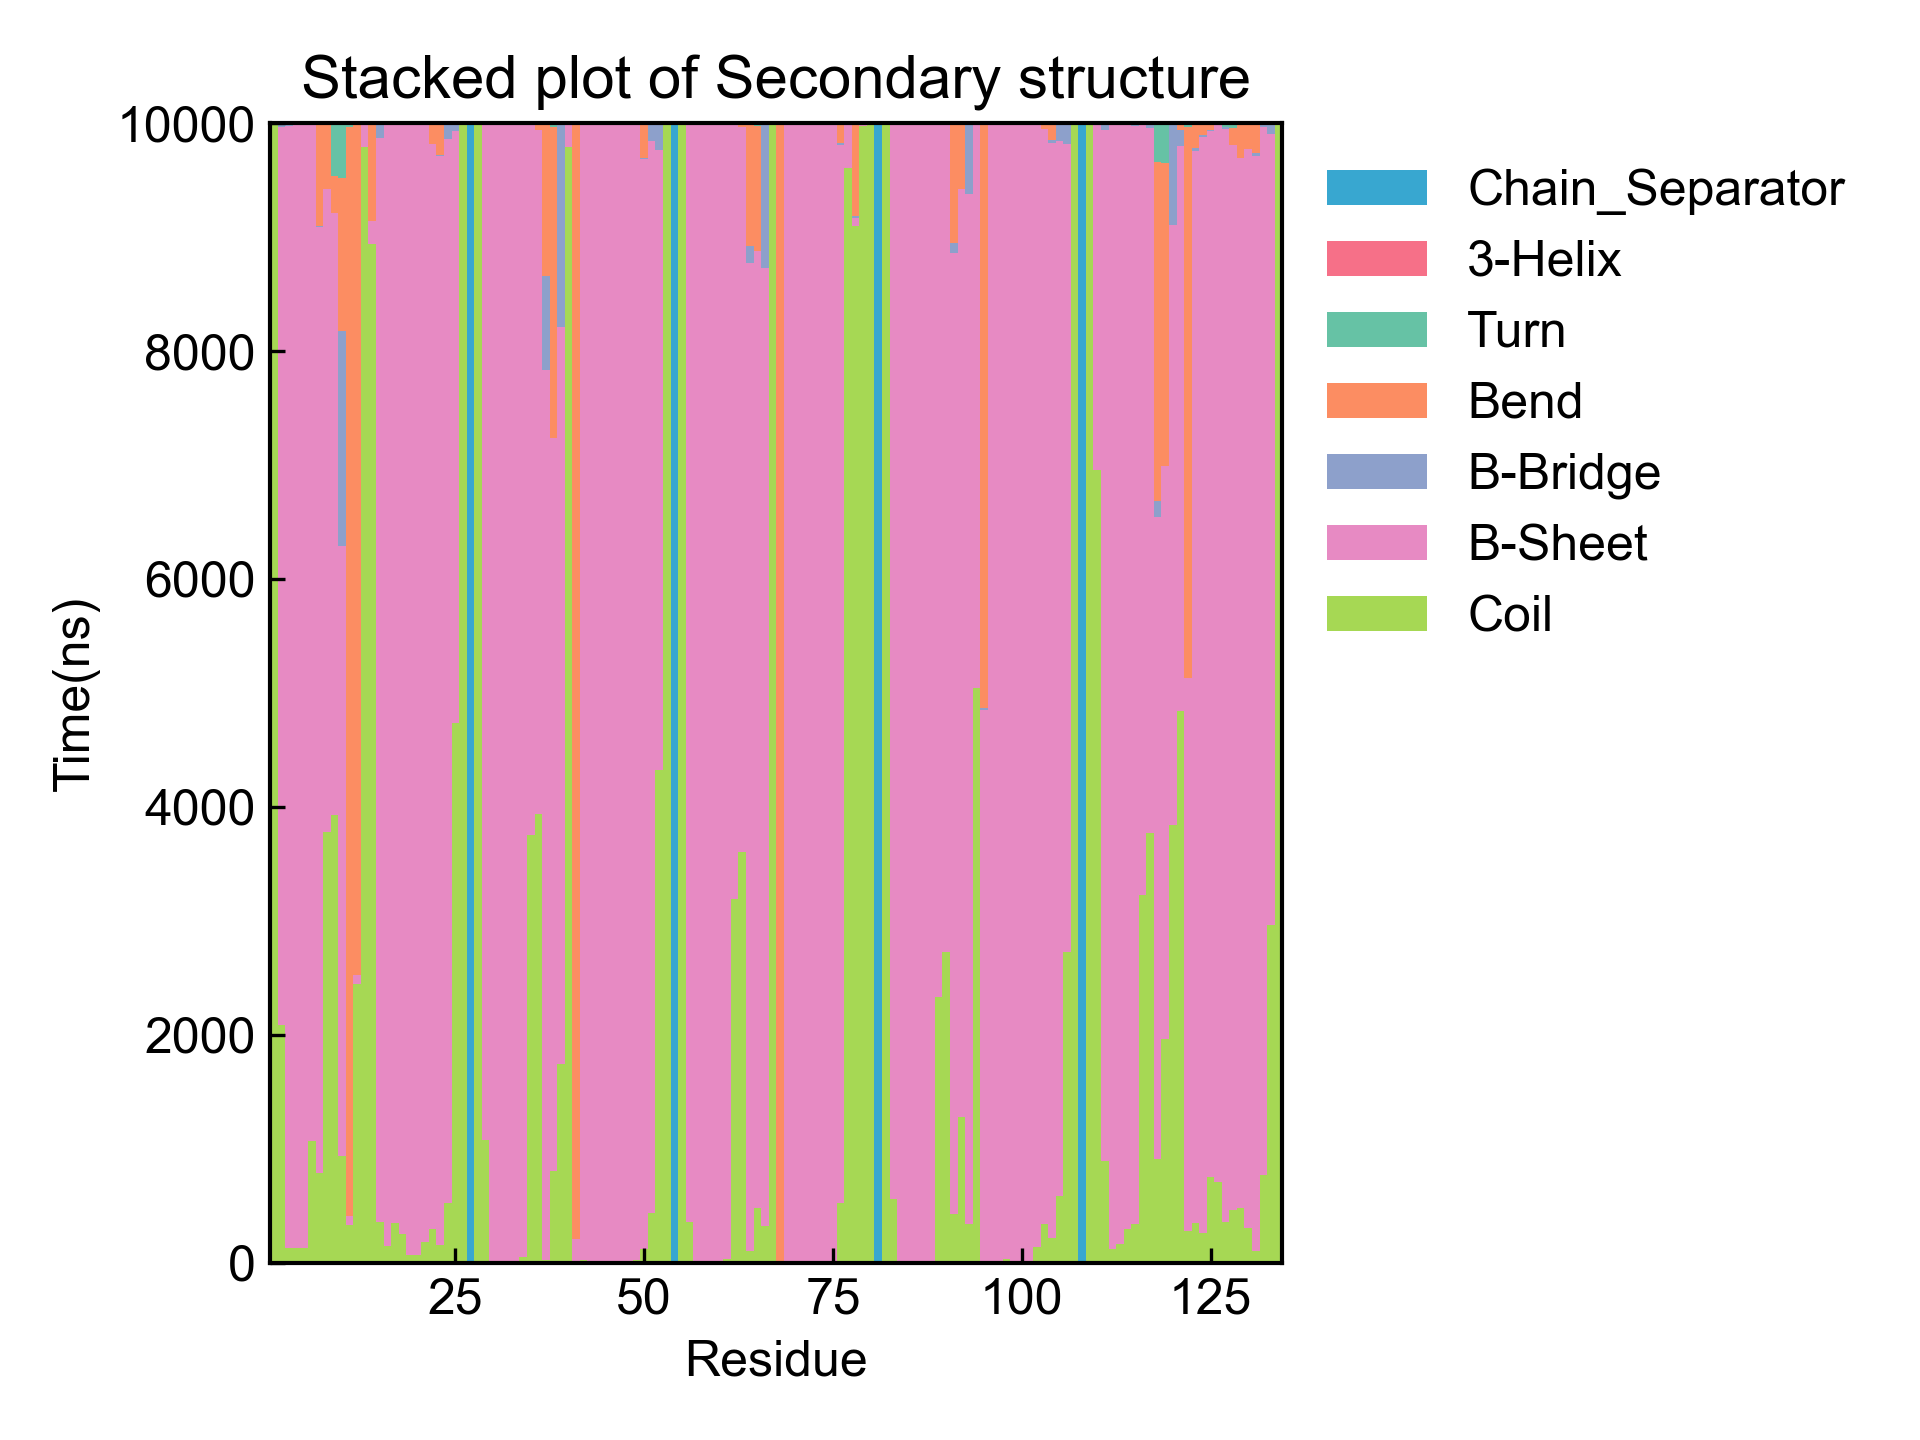
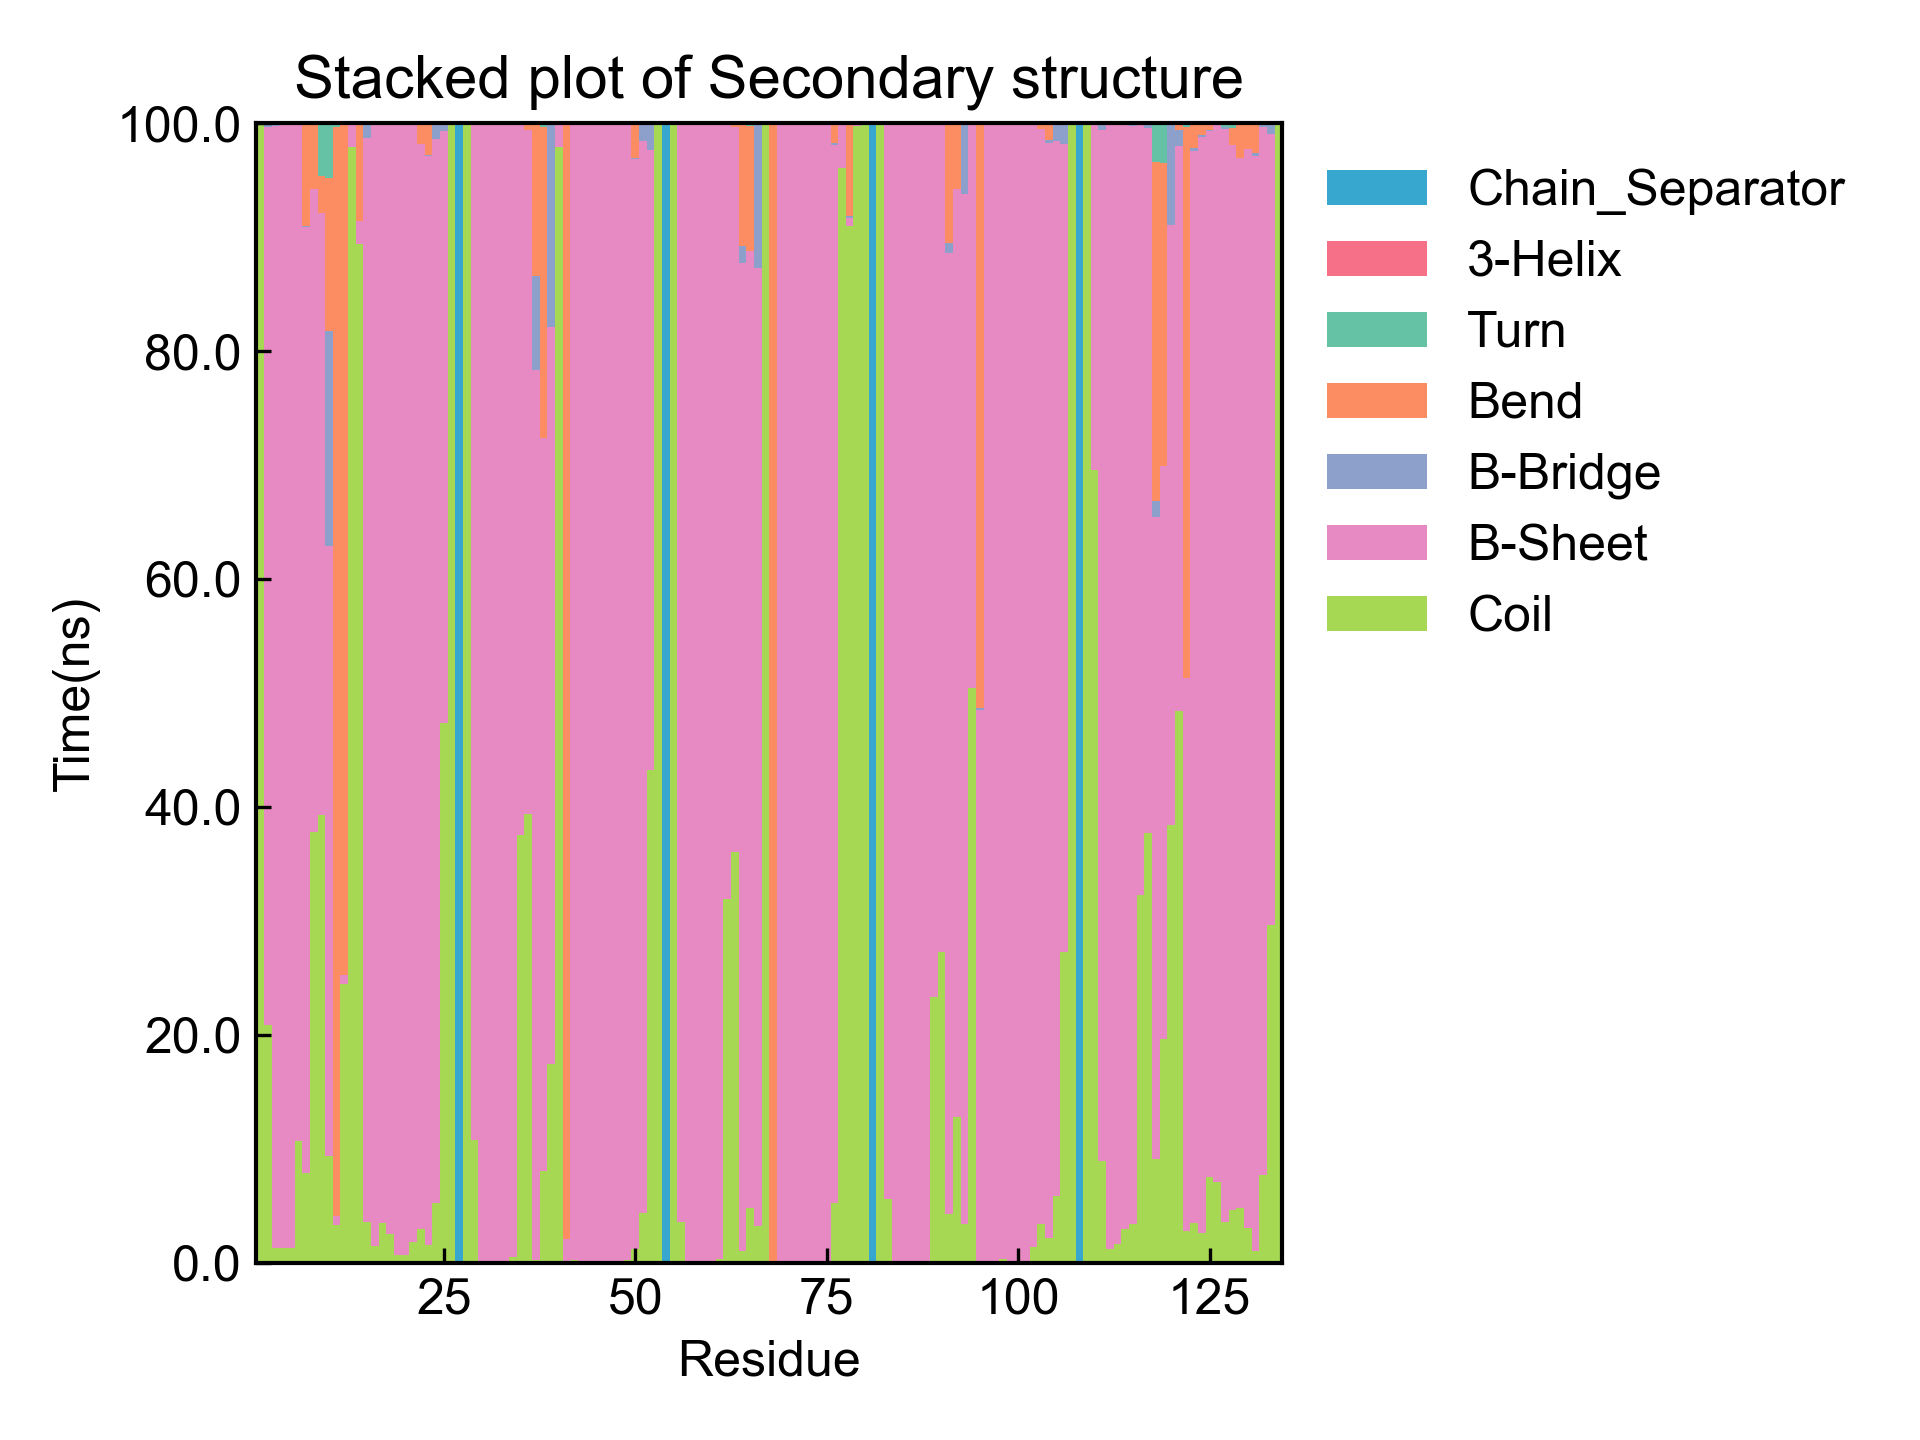
fixed the bug of dssp in DuIvyTools_old

Changed region(s): [[0.0938, 0.0312, 0.6562, 0.9688], [0.625, 0.875, 0.6562, 0.9062]]

diff --git a/DuIvyTools/DuIvyTools_old/DSSP.py b/DuIvyTools/DuIvyTools_old/DSSP.py
@@ -139,6 +139,9 @@ def dssp(
 
     plt.xlabel(xpm.xpm_ylabel)
     plt.ylabel(xpm.xpm_xlabel)
+    ytics, _ = plt.yticks()
+    yticklabels= [xpm.xpm_xaxis[int(y)] for y in ytics[:-1]]
+    plt.yticks(ytics[:-1], yticklabels)
     plt.title("Stacked plot of " + xpm.xpm_title)
     plt.xlim(np.min(xpm.xpm_yaxis) - 0.5, np.max(xpm.xpm_yaxis) + 0.5)
     plt.ylim(ylim_min, ylim_max)
